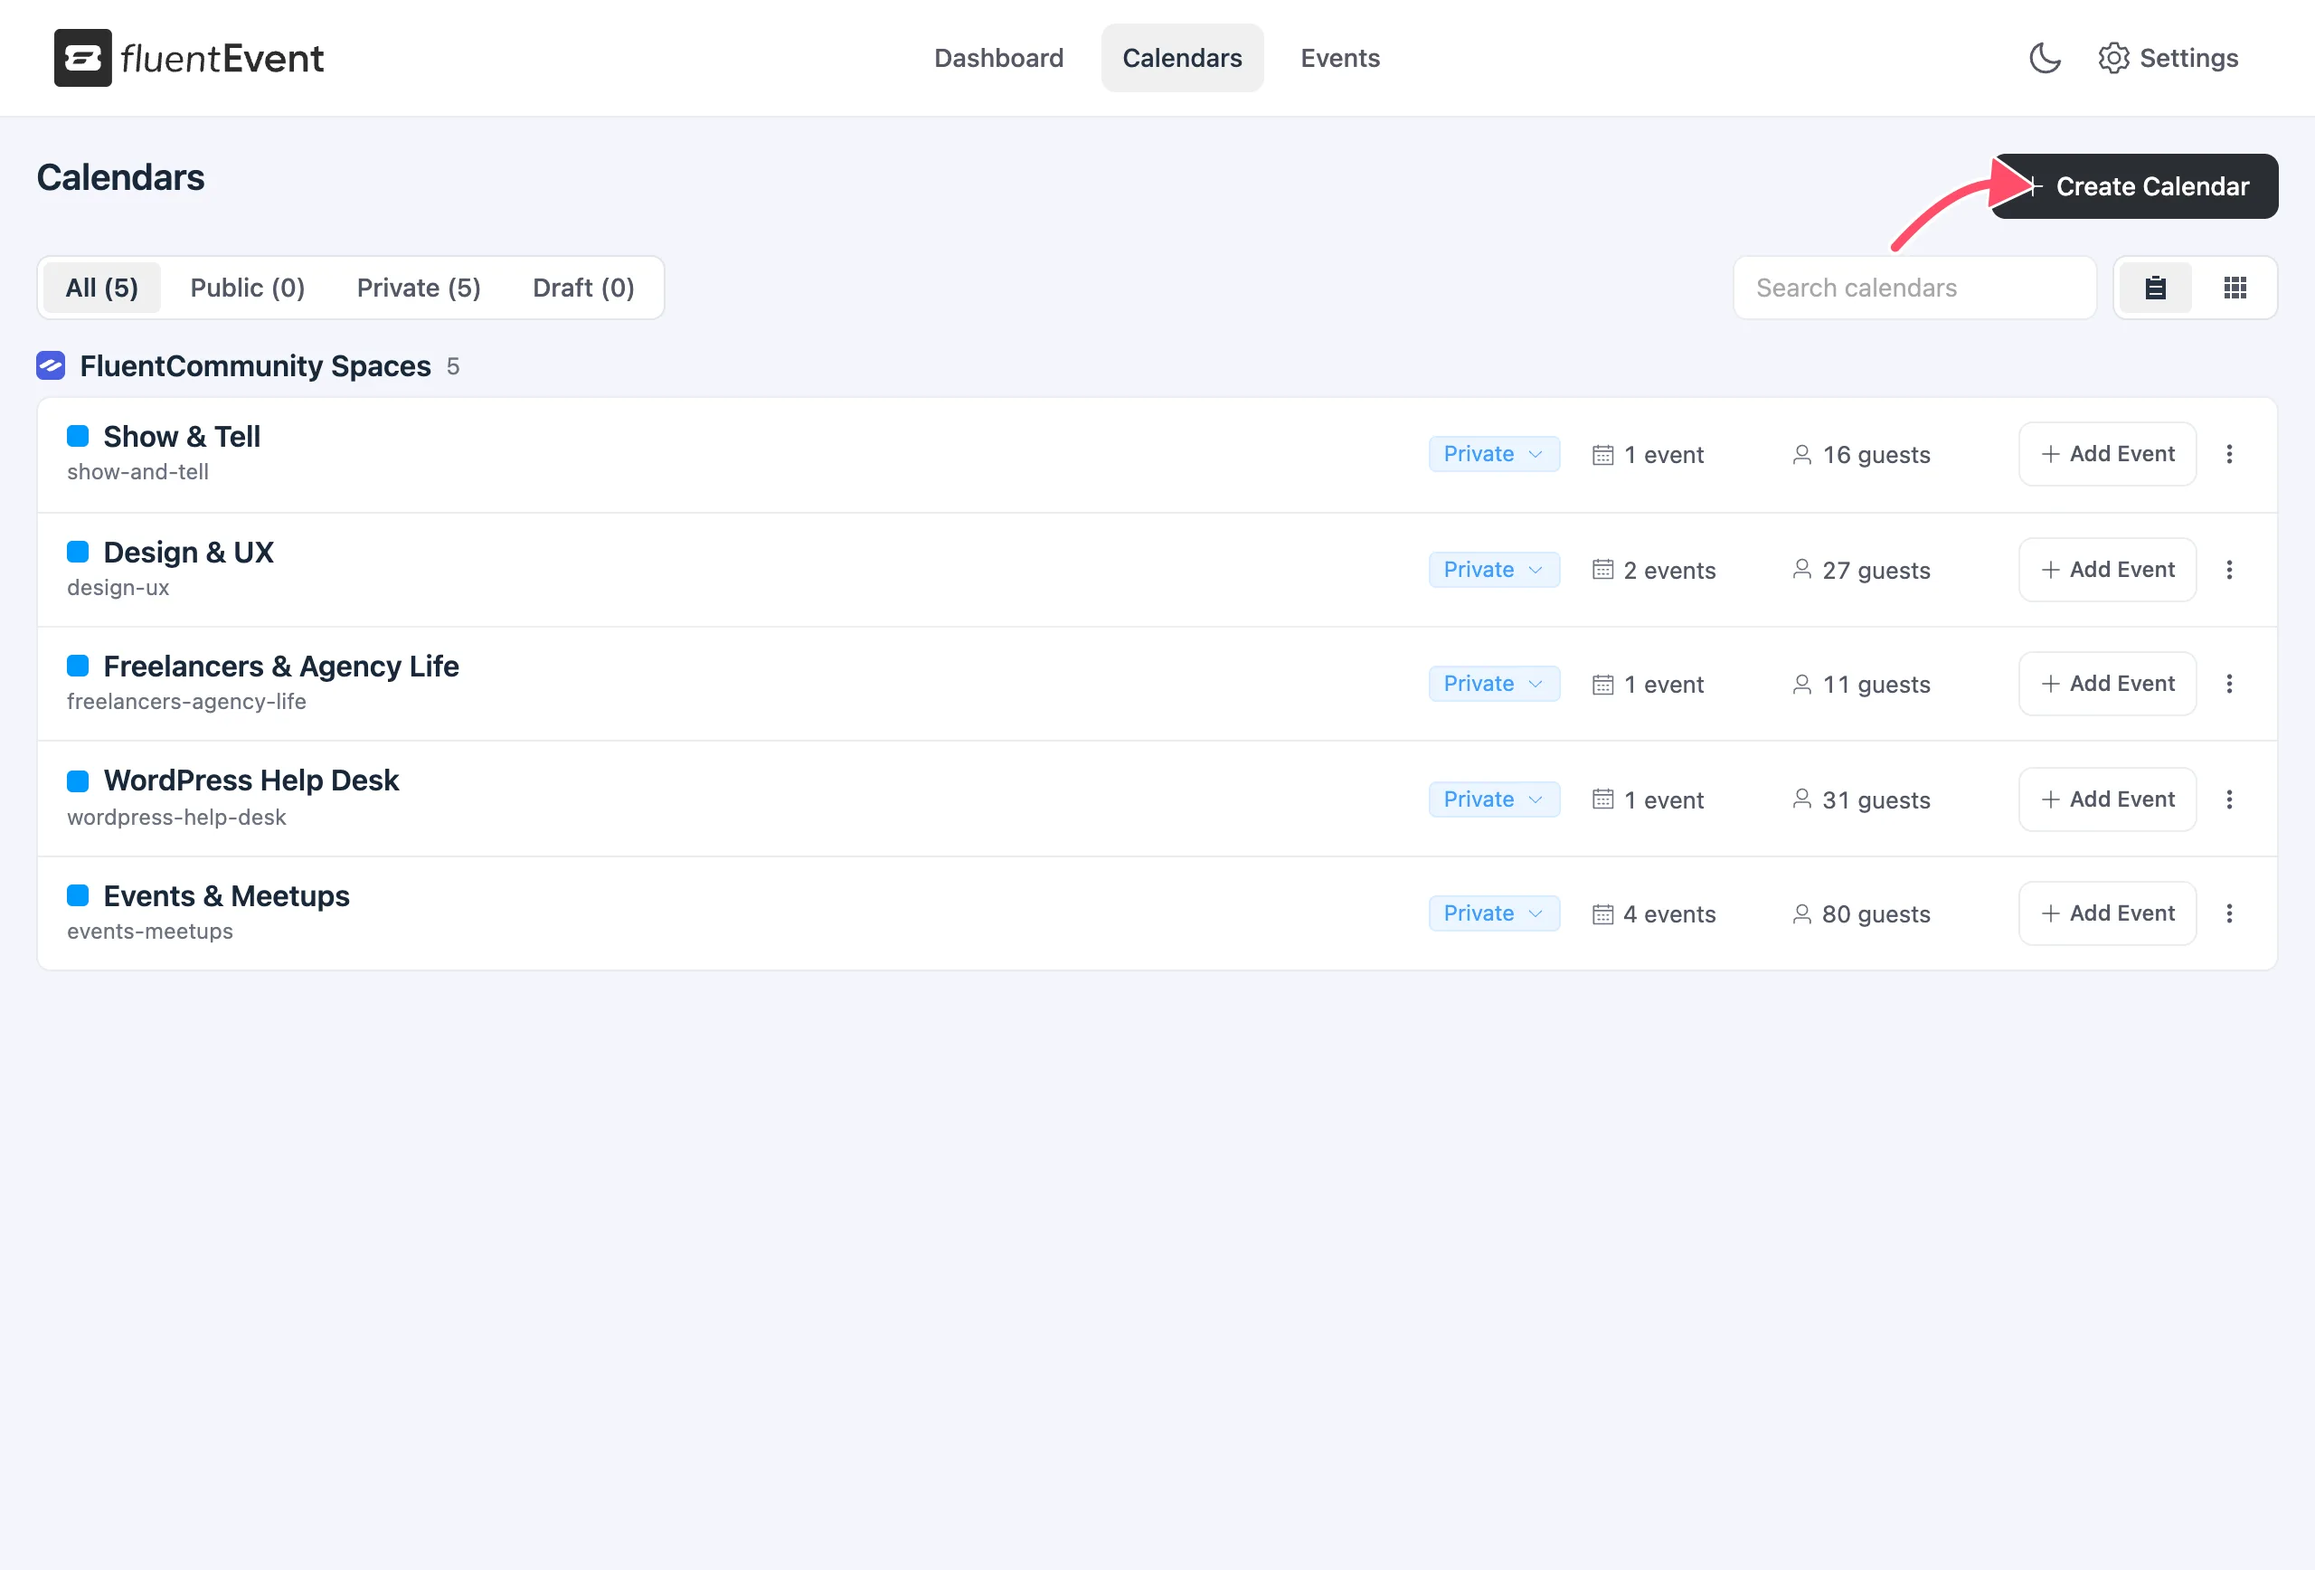
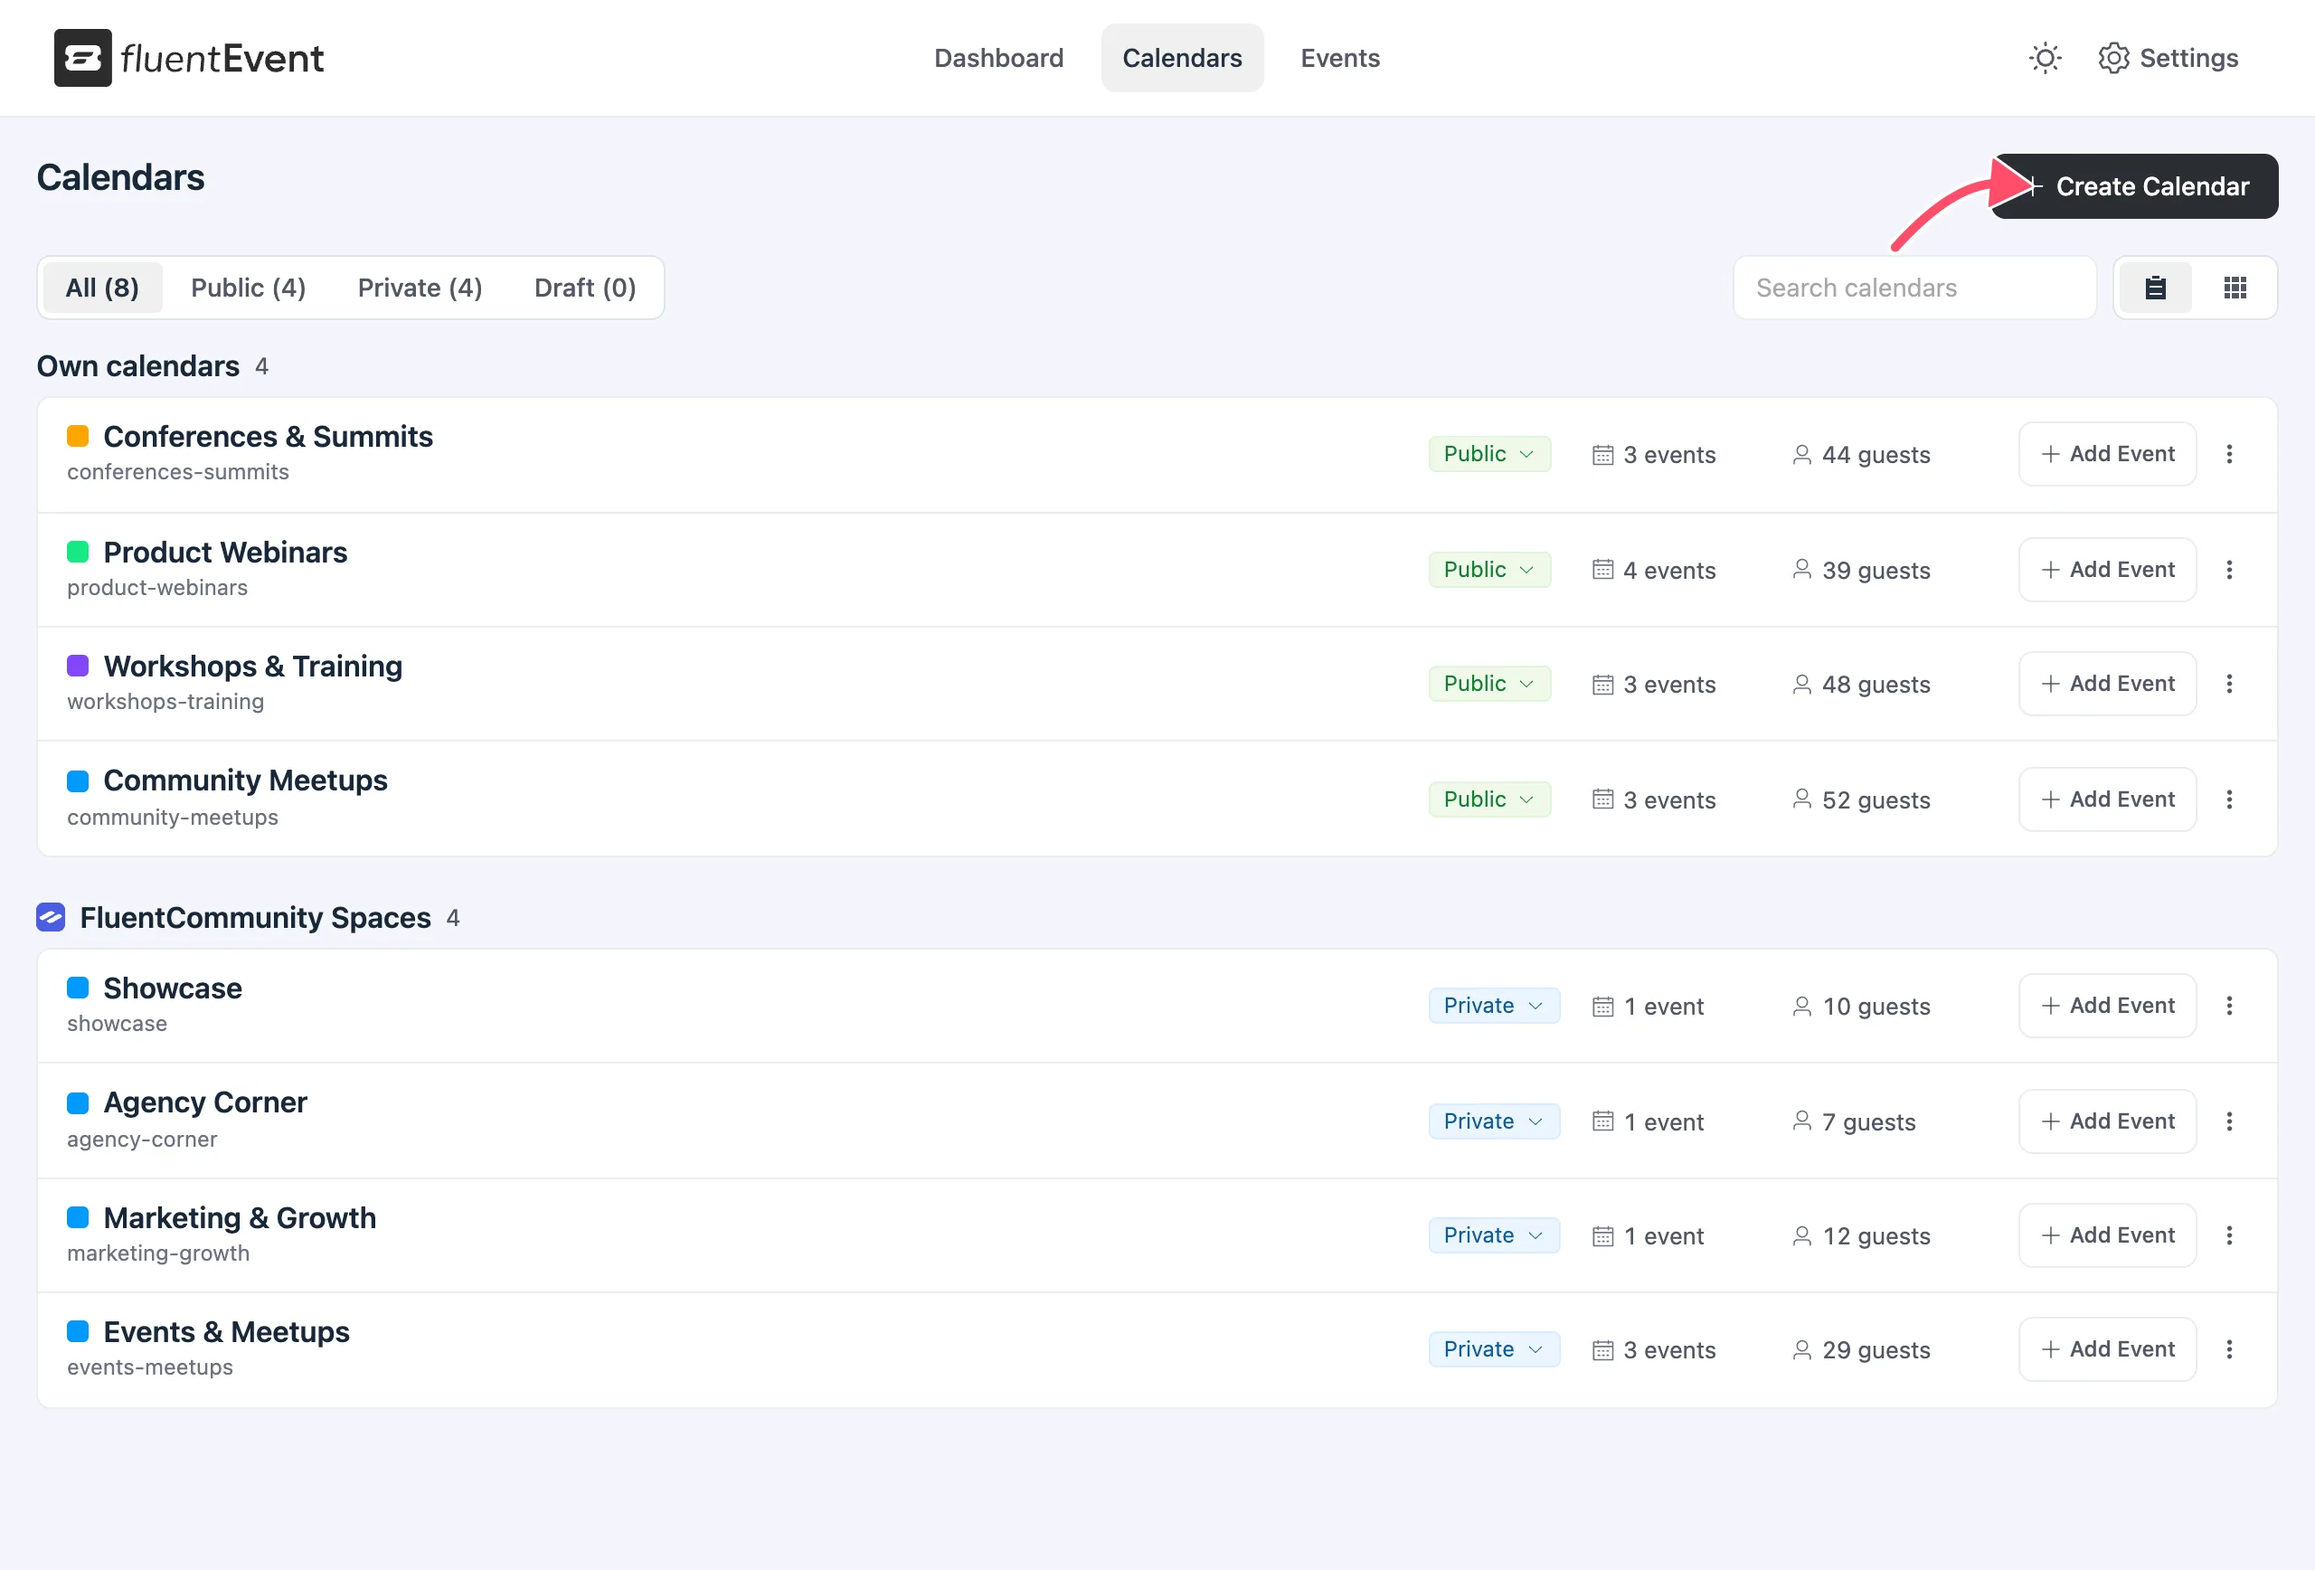
update calendar docs

diff --git a/docs/calendars/calendars-overview.md b/docs/calendars/calendars-overview.md
@@ -5,32 +5,58 @@ description: Understand how calendars group your events, how they relate to Flue
 
 # Calendars Overview
 
-A **calendar** holds events. Every FluentCommunity space gets its own calendar, so the events posted in a space live in that space's calendar. Open **FluentEvent** › **Calendars** to see them all.
+A **calendar** holds events. Every event belongs to one calendar. You can create your own calendars, and FluentEvent also creates calendars for your FluentCommunity spaces. Open **FluentEvent** › **Calendars** to see them all.
 
-![The Calendars screen listing five calendars grouped under FluentCommunity Spaces](/images/calendars/overview/1.-Calendars-List.webp)
+## Understanding Where Calendars Come From
+
+- **Your own calendars**: Calendars you create yourself, for example **Workshops & Training**. Use them for events that are not tied to a space.
+- **Space calendars**: FluentEvent creates a calendar for a discussion space the first time an event is posted in that space from the community portal. The calendar takes the space's name and starts as **Private**.
+- **Community calendar**: Events posted community-wide, outside any space, go into one calendar called **Community**. It also starts as **Private**.
+
+An event you create from the WordPress admin can use any calendar, but it is not posted in the community feed. See [Create an event from the admin](/create-an-event-from-the-admin).
+
+If you delete a space in FluentCommunity, its calendar is not deleted. FluentEvent detaches it and sets it to **Draft**. Its events become drafts and keep their guests, so you can decide what to delete.
 
 ## Viewing the Calendars List
 
+The list groups your calendars under two headings: **Own calendars** and **FluentCommunity Spaces**. The community calendars are listed under **FluentCommunity Spaces**, with the FluentCommunity logo next to the heading.
+
+![The Calendars screen listing four own calendars and four FluentCommunity space calendars](/images/calendars/overview/1.-Calendars-List.webp)
+
 - **Status filters**: **All**, **Public**, **Private** and **Draft**, each with a count.
-- **Search calendars**: find a calendar by name.
-- **FluentCommunity Spaces**: calendars that belong to your spaces are grouped under this heading.
-- **Each row** shows the calendar name and slug, its status, how many events and guests it has, an **Add Event** shortcut and a menu with more actions.
+- **Search calendars**: Type a name and press <kbd>Enter</kbd> to find a calendar.
+- **List and card view**: Use the two icons next to the search box to switch the layout. FluentEvent remembers your choice.
+- **Each row**: Shows the calendar's color, name and slug, its status, how many events and guests it has, an **Add Event** shortcut and a menu with more actions.
+
+![The Calendars screen in card view with each calendar as a card](/images/calendars/overview/2.-Calendars-Cards.webp)
+
+## Using the Calendar Row Actions
+
+Use a row's menu to take quick actions without opening the calendar.
+
+- **Status**: Click the status tag on a row and choose **Public**, **Private** or **Draft** to change it right away.
+- **Add Event**: Opens the event form with this calendar already selected.
+- **Edit**: Opens the calendar's edit form.
+- **View in Community**: Opens the space in a new tab. It appears only on calendars that belong to a space.
 
 ## Understanding Calendar Statuses
 
-- **Public**: anyone can find it. Public calendars can appear on [landing pages](/general-settings) when you turn them on.
-- **Private**: no public page.
-- **Draft**: not ready yet.
+- **Public**: Anyone can find it. Events in a public calendar can have a public page. See [Event details and settings](/event-details-and-settings).
+- **Private**: No public page.
+- **Draft**: Not ready yet.
+
+An event has a public page only when the event is **Public** or **Unlisted** and its calendar is **Public**. Calendars themselves have no public page.
 
 ## Opening a Calendar's Detail Page
 
-Click a calendar to see its detail page.
+Click a calendar's name, or anywhere on its row, to see its detail page.
 
-![A calendar detail page with event and guest totals and the list of its events](/images/calendars/overview/2.-Calendar-Detail.webp)
+The page shows the calendar's title and status, its slug and who created it, four totals and two tabs. Calendars that belong to a space show the FluentCommunity logo next to the title. Click it to open the space in a new tab. The Community calendar shows the same logo with a note that it holds community-wide events.
 
-The page shows the calendar's status, slug and who created it, four totals (**Total Events**, **Upcoming Events**, **Total Guests**, **Checked In Guests**) and two tabs:
-
-- **Events**: the calendar's events, with **All**, **Upcoming** and **Past** buttons and the same views as the main [Events list](/manage-events-list-views).
-- **Settings**: the Danger Zone for [deleting the calendar](/delete-a-calendar).
+- **Total Events**, **Upcoming Events**, **Total Guests** and **Checked In Guests**: The four totals for this calendar.
+- **Events**: The calendar's events, with **All**, **Upcoming** and **Past** buttons and the same views as the main [Events list](/manage-events-list-views).
+- **Settings**: The **Danger Zone** for [deleting the calendar](/delete-a-calendar).
 
 Use **Edit** to change the calendar and **Add Event** to create an event in it. See [Create and edit a calendar](/create-and-edit-a-calendar).
+
+![A calendar detail page with event and guest totals and the list of its events](/images/calendars/overview/3.-Calendar-Detail.webp)

diff --git a/docs/calendars/create-and-edit-a-calendar.md b/docs/calendars/create-and-edit-a-calendar.md
@@ -5,7 +5,7 @@ description: Create a calendar with a title, slug, color and visibility, and edi
 
 # Create and Edit a Calendar
 
-Create a calendar when you need another group for events. Space calendars are created for you, and you can edit them like any other.
+Create a calendar when you need another group for events, for example one for workshops and one for webinars. Space calendars are created for you, and you can edit them like any other.
 
 ## Creating a New Calendar
 
@@ -14,35 +14,57 @@ Create a calendar when you need another group for events. Space calendars are cr
 
 ![The Calendars screen with an arrow pointing to the Create Calendar button](/images/calendars/create-edit/1.-Create-Calendar-Button.webp)
 
-3. Fill in the form and click **Create Calendar**.
+3. Fill in the form.
+4. Click **Create Calendar**.
+
+The form opens with the note "A calendar holds your events. Give it a title and you can start adding events to it." Click **Go Back** to leave without saving.
 
 ![The Create Calendar form with title, slug, color and visibility](/images/calendars/create-edit/2.-Create-Calendar-Form.webp)
 
 ### Setting the Calendar Identity
 
-- **Title** (required): the name people see wherever the calendar appears.
-- **Slug** (required): identifies the calendar in links.
-- **Color**: pick a swatch, or click **+** for a custom color. The color marks the calendar's events.
+The **Identity** section holds the name and color people see wherever the calendar appears.
+
+- **Title** (required): The name people see, for example `Personal`.
+- **Slug** (required): Identifies the calendar in links, for example `personal`. FluentEvent fills it in from the title as you type, using lowercase letters and hyphens. You can change it before you save.
+- **Color**: Pick one of the swatches (Vivid Blue, Purple, Deep Lilac, Cyan, Emerald Green, Lime Green, Amber or Red-Orange), or click **+** to choose a custom color. The color marks the calendar's events. A custom color must be a hex value such as `#0099ff`.
 
 ### Choosing Calendar Visibility
 
-- **Public**: anyone can find it.
-- **Private**: no public page.
-- **Draft**: not ready yet.
+The **Visibility** section decides who can find the calendar. **Public** is selected by default.
 
-Click **Reset Calendar** to clear the form.
+- **Public**: Anyone can find it.
+- **Private**: No public page.
+- **Draft**: Not ready yet.
+
+Visibility also affects the events inside. An event has a public page only when its calendar is **Public**. See [Calendars overview](/calendars-overview).
+
+Click **Reset Calendar** to clear the form, then click **Create Calendar** to save.
 
 ## Editing an Existing Calendar
 
-1. Open the calendar and click **Edit**, or use the menu on its row in the list.
-2. Change the fields and click **Update Calendar**.
+1. Open the calendar and click **Edit**, or choose **Edit** from the menu on its row in the list.
+2. Change the title, color or visibility.
+3. Click **Update Calendar**.
+
+The edit form says "Update the calendar details. Events already in it are not affected." Changing a calendar's title, color or visibility does not move or change its events.
 
 ![The Edit Calendar form for the Events and Meetups calendar](/images/calendars/create-edit/3.-Edit-Calendar-Form.webp)
 
-The slug is locked when you edit. Click **Change** next to it to edit it.
+You can also change a calendar's visibility from the list. Click the status tag on its row and choose a new status. See [Calendars overview](/calendars-overview).
+
+## Changing a Calendar's Slug
+
+The slug is locked when you edit, because links to the calendar use it.
+
+1. Click **Change** next to the slug.
+2. Read the message and click **Change slug** to confirm.
+3. Enter the new slug and click **Update Calendar**.
+
+![The Change slug confirmation asking whether to change the slug of the calendar](/images/calendars/create-edit/4.-Change-Slug-Dialog.webp)
 
 ::: warning
 Changing the slug later breaks existing links to the calendar.
 :::
 
-Next, [add events to the calendar](/create-an-event-from-the-admin).
+Next, [add events to the calendar](/create-an-event-from-the-admin). Use **Add Event** on the calendar's row or detail page to start with the calendar already selected.

diff --git a/docs/calendars/delete-a-calendar.md b/docs/calendars/delete-a-calendar.md
@@ -5,7 +5,7 @@ description: Delete a calendar from its Settings tab and understand that its eve
 
 # Delete a Calendar
 
-You can delete a calendar from its detail page. Deleting is permanent.
+You can delete a calendar from its detail page. Deleting is permanent, so check what the calendar holds before you start.
 
 ::: warning
 Deleting a calendar also permanently deletes all of its events and their guests. This cannot be undone.
@@ -15,11 +15,25 @@ Deleting a calendar also permanently deletes all of its events and their guests.
 
 1. Go to **FluentEvent** › **Calendars** and open the calendar.
 2. Click the **Settings** tab.
-3. In the **Danger Zone**, type the calendar name in the box to confirm.
-4. Click **Delete Calendar**.
+3. In the **Danger Zone**, find **Delete this calendar**.
+4. Type the calendar name in the box to confirm.
+5. Click **Delete Calendar**.
+6. Click **Delete** in the confirmation box.
+
+The **Delete Calendar** button stays disabled until the name you type matches the calendar's name exactly. After the delete, FluentEvent returns you to the Calendars list.
 
 ![The Danger Zone on a calendar's Settings tab with the confirmation field and Delete Calendar button](/images/calendars/delete/1.-Calendar-Danger-Zone.webp)
 
-The **Delete Calendar** button stays disabled until the name you type matches the calendar's name exactly.
+A second box asks you to confirm. Click **Cancel** if you change your mind. The calendar is only deleted when you click **Delete**.
 
-If you only want to hide a calendar, set its status to **Draft** or **Private** instead. See [Create and edit a calendar](/create-and-edit-a-calendar).
+![The Delete Calendar confirmation box warning that all events and guests will be deleted](/images/calendars/delete/2.-Delete-Calendar-Confirmation.webp)
+
+## Understanding What Happens to Events and Posts
+
+Each event in the calendar is deleted with its guests. If an event was posted from the community portal, its feed post stays in the space as a plain post without the event card.
+
+Deleting a space calendar does not delete the space itself. The next time an event is posted in that space from the portal, FluentEvent creates a new calendar for it.
+
+## Hiding a Calendar Instead of Deleting It
+
+If you only want to hide a calendar, set its status to **Draft** or **Private** instead. Click the status tag on the calendar's row, or edit the calendar. See [Create and edit a calendar](/create-and-edit-a-calendar).
